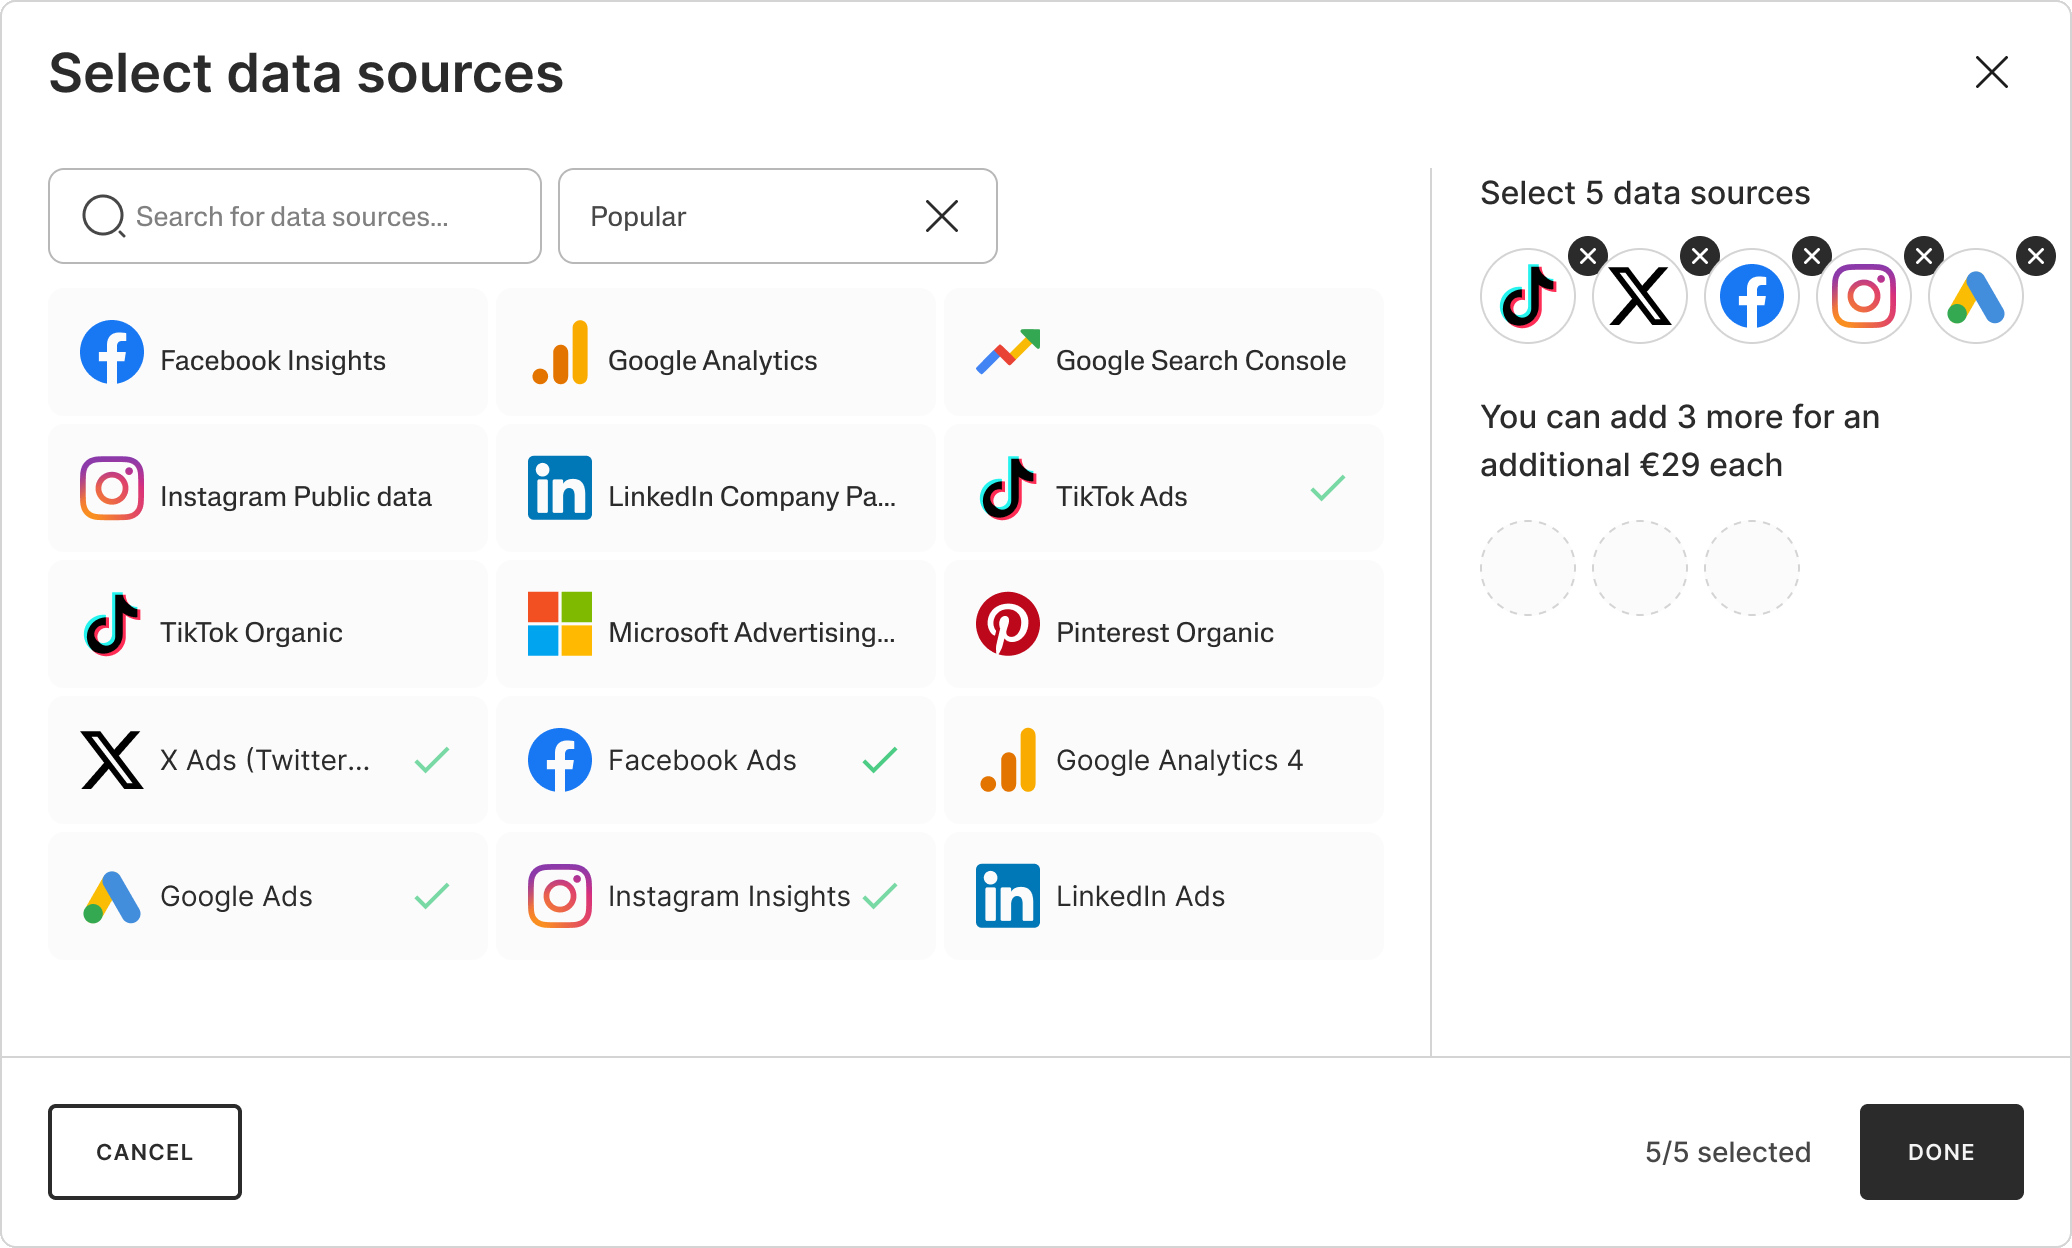
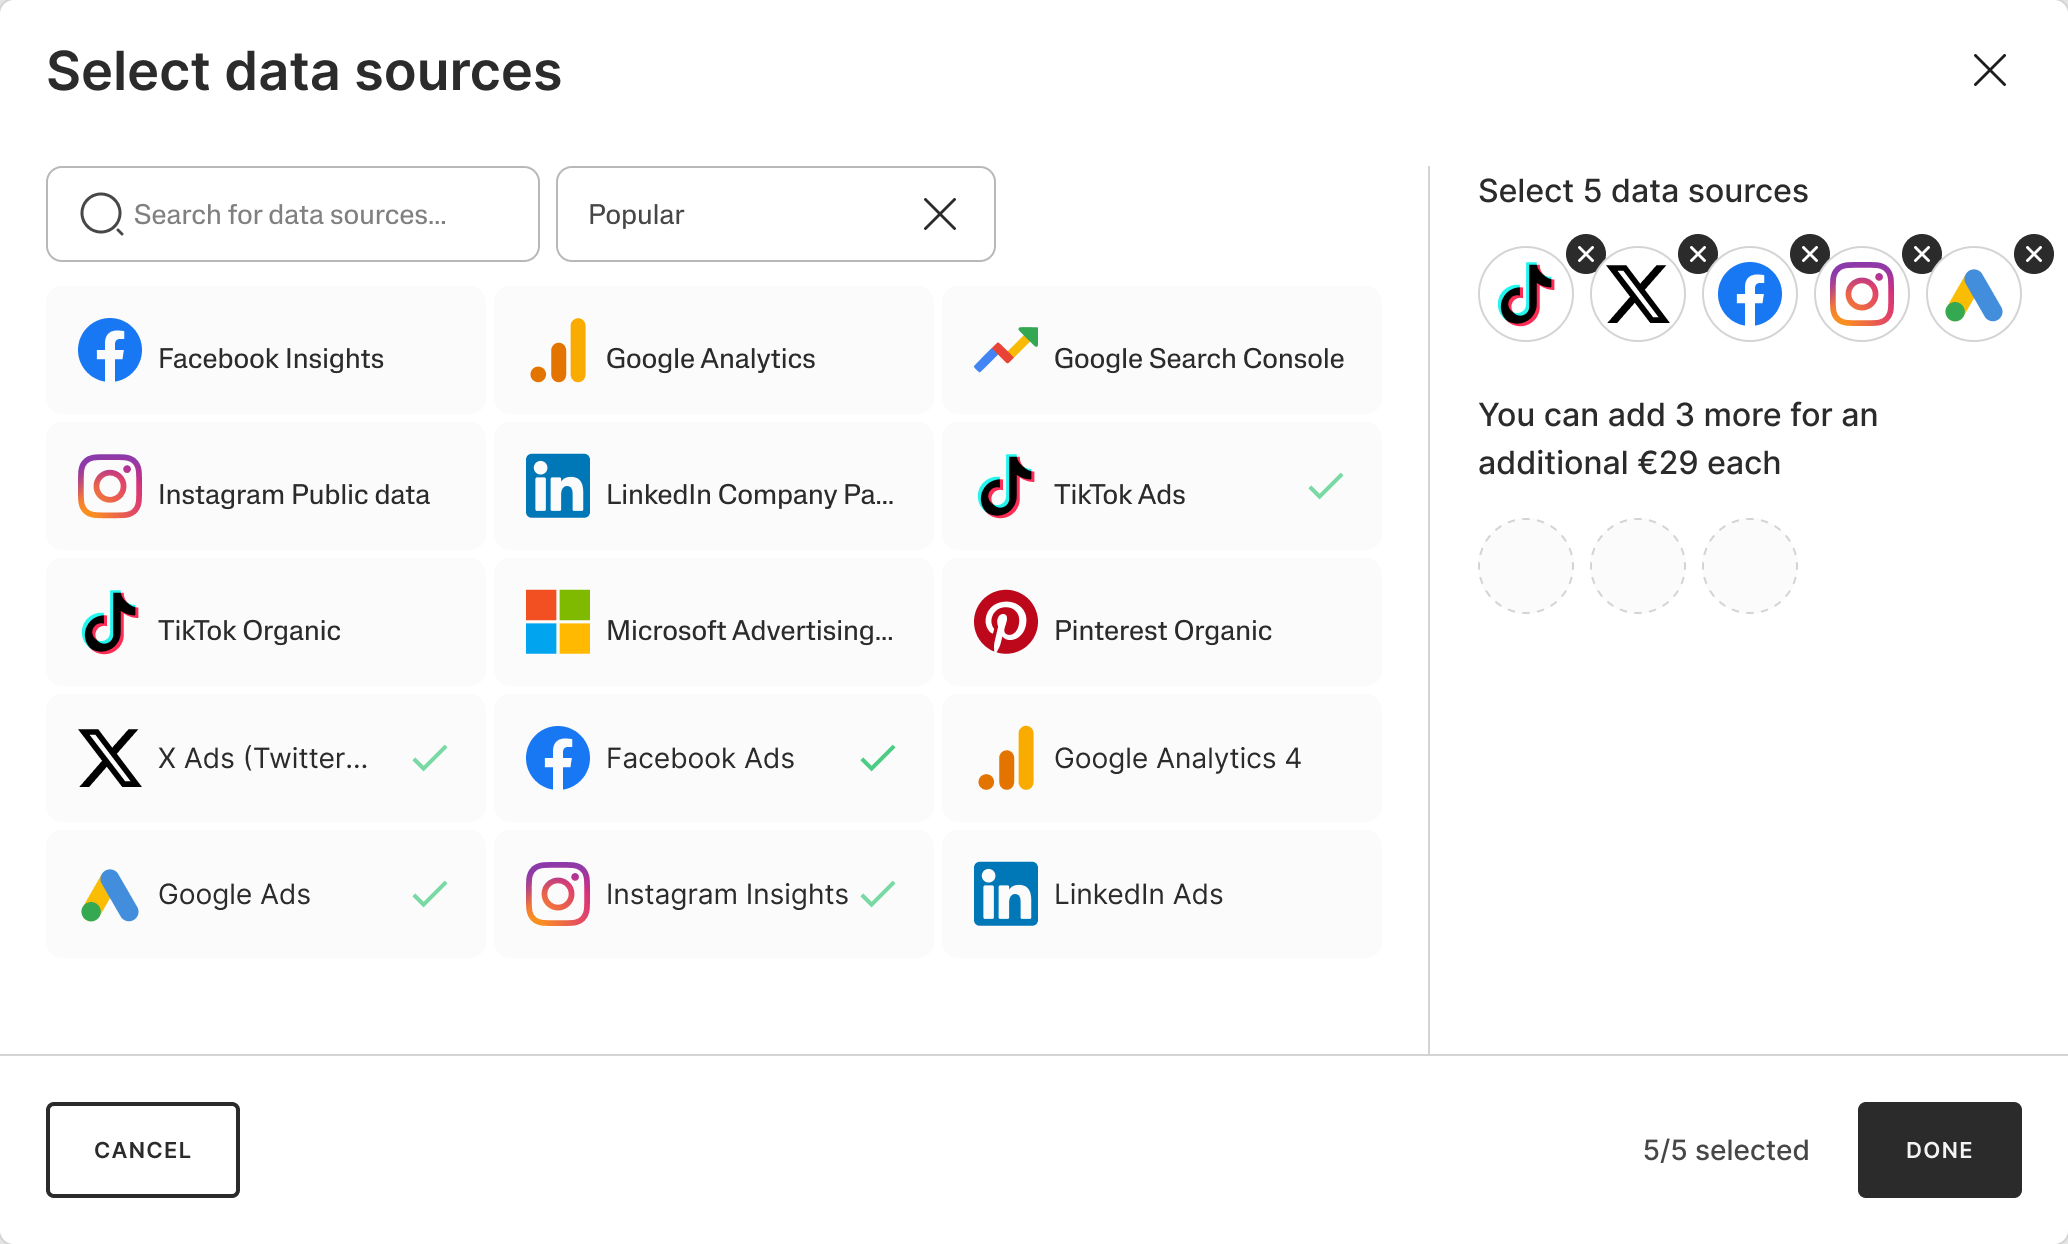
About image back in the text column, clean modal corners on Supermetrics
The About hero image starts on the same left edge as the body copy again.
The data sources modal screenshot loses its baked-in square border, and a
CSS outline now follows its rounded corners so nothing is clipped.

Claude-Session: https://claude.ai/code/session_01KXnjDh72uQzYPN4BMXmEj2

diff --git a/supermetrics-purchase.html b/supermetrics-purchase.html
@@ -665,7 +665,7 @@ main figure img:not(.no-round), .hero img { border-radius: 22px; }
 @media (max-width: 760px) { .uf__lane { grid-template-columns: minmax(0, 1fr); } .uf__lane > .uf__tag { grid-row: auto; padding: 0 0 6px; } .uf__lane > :not(.uf__tag) { grid-column: 1; } .uf__n { font-size: 13px; padding: 7px 11px; } }
 /* The data sources modal sits on a padded panel so its own corners show whole */
 .shot--modal { padding: clamp(16px, 4vw, 48px); background: #EEF1FF !important; }
-.shot--modal img { box-shadow: 0 20px 40px -24px rgba(30, 40, 90, 0.35); border-radius: 12px !important; }
+.shot--modal img { box-shadow: 0 20px 40px -24px rgba(30, 40, 90, 0.35); border-radius: 12px !important; outline: 1px solid rgba(29, 34, 48, 0.14) !important; outline-offset: -1px !important; }
 /* Outcome: a numbered story, smaller screens */
 .sbd__grid { display: grid; grid-template-columns: repeat(3, minmax(0, 1fr)); gap: 28px 20px; margin: 0; padding: 0; list-style: none; }
 .sbd__item { display: grid; gap: 6px; align-content: start; }

diff --git a/about.html b/about.html
@@ -732,8 +732,8 @@ body:has(.crumb) > header.nav { padding-bottom: 16px !important; }
 @supports (corner-shape: squircle) { .row--hero > .frame { corner-shape: superellipse(2); } }
 .row--hero > .frame img { border-radius: inherit !important; }
 
-/* Smaller hero image on larger screens, starting on the text column's left edge */
-@media (min-width: 761px) { .row--hero > .frame { grid-column: 1 / -1 !important; grid-row: 2; width: 100%; max-width: none; justify-self: stretch; aspect-ratio: 3 / 1 !important; height: auto !important; margin-top: 8px !important; } }
+/* Hero image sits in the text column, starting on the same left edge as the body copy */
+@media (min-width: 761px) { .row--hero > .frame { align-self: start; } }
 </style>
 </head>
 <body>
